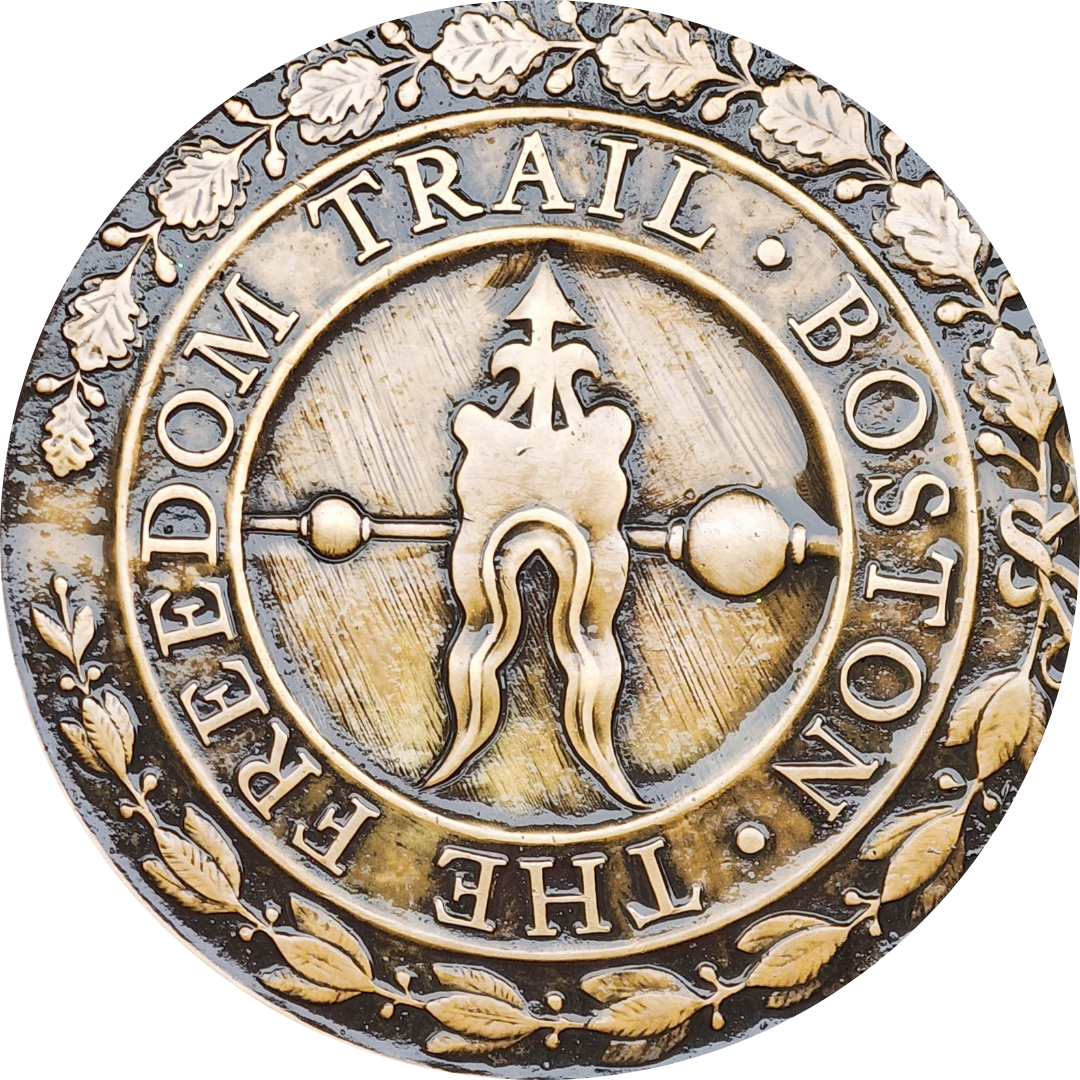
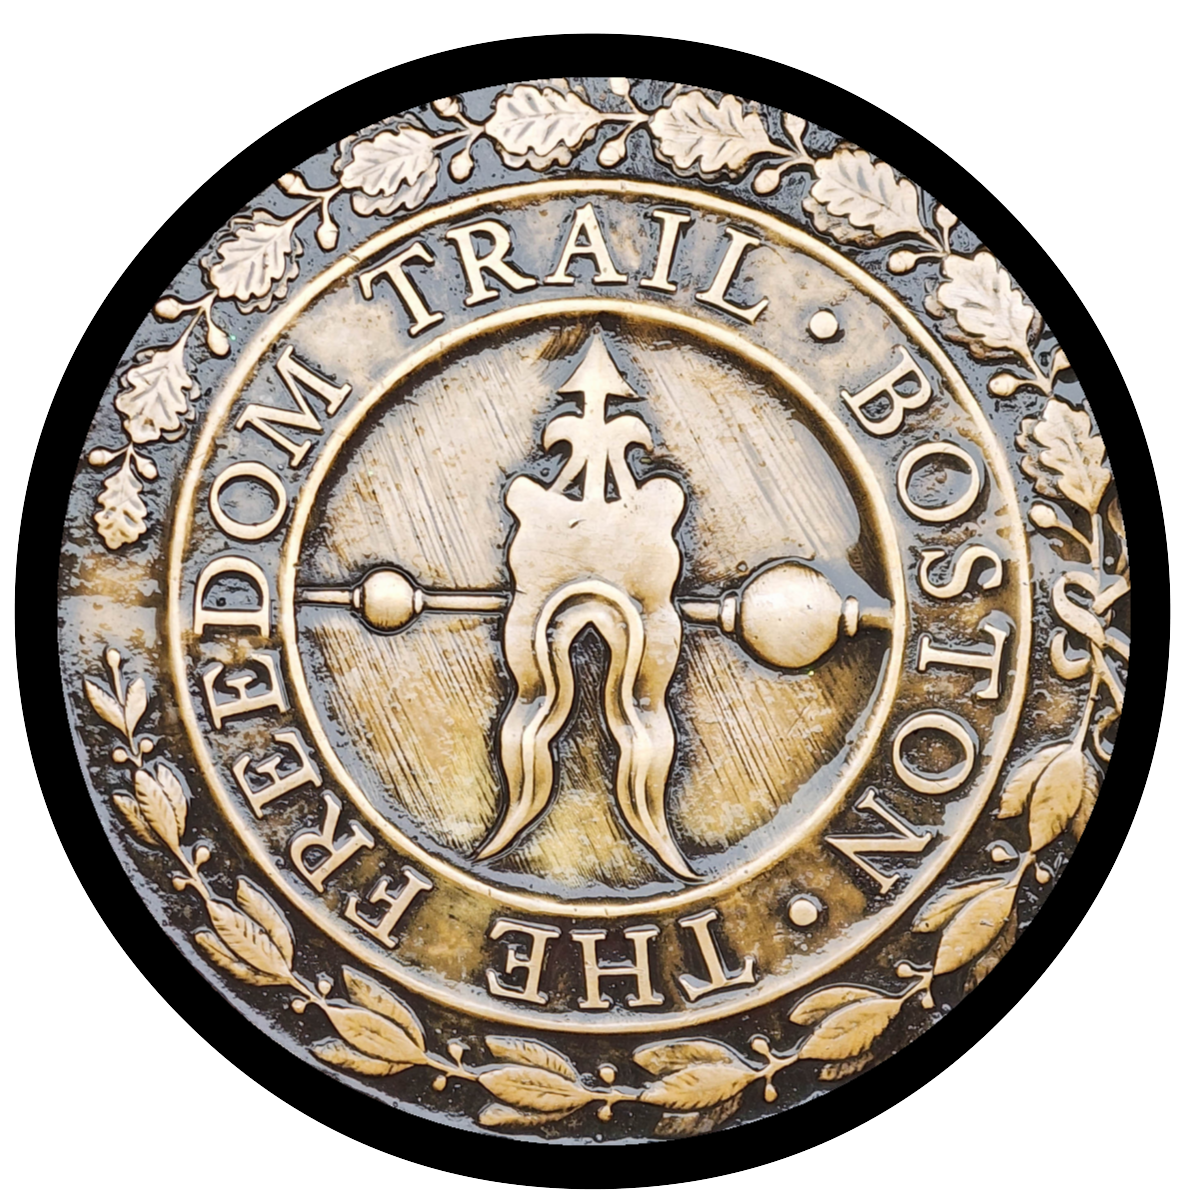
Merged in Main

diff --git a/components/FreedomMap.tsx b/components/FreedomMap.tsx
@@ -136,7 +136,7 @@ const FreedomMap: React.FC<MapProps> = ({ geoJsonData, geoJsonDataRestrooms }) =
                 alt={"Trail marker"}
                 width={100}
                 height={100}
-                className="rounded-md object-cover w-full h-full hover:scale-110 hover:cursor-pointer transition-transform duration-200 ease-in-out brightness-122 shadow-md"
+                className="rounded-md object-cover w-full h-full hover:scale-110 hover:cursor-pointer transition-transform duration-200 ease-in-out shadow-md"
                 loading="lazy"
             />
         ),
